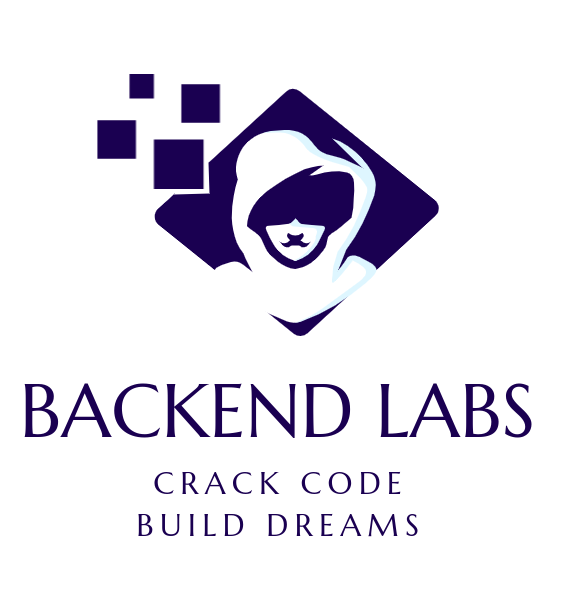
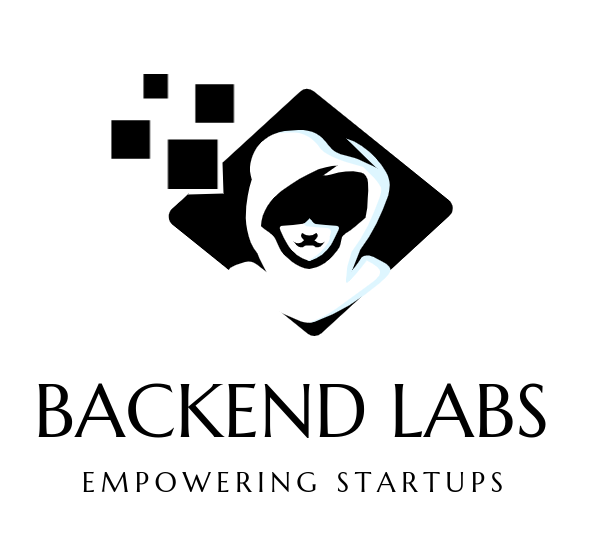
Add files via upload

Changed region(s): [[0.0299, 0.6432, 0.9577, 0.9189], [0.1496, 0.1225, 0.7782, 0.6126]]

diff --git a/profile/README.md b/profile/README.md
@@ -2,22 +2,19 @@
 
 ![logo](https://github.com/back-end-labs/.github/raw/main/profile/backendlabs.png)
 
-At Backend Labs, we transcend code, embodying these core values that power our success:
+Welcome to Backend Labs – the convergence of innovation and implementation for startups and small tech business.
 
-🚀 **Innovation Hub:** Crafting solutions at the forefront of technology.
+😓 Struggling with technical know-how for your MVP? We've got you covered.
 
-🤝 **Collaborative Spirit:** Embracing diverse perspectives to architect comprehensive solutions.
+👥 Short on developers for your ongoing project? We can help fill the gap.
 
-💡 **Excellence Matrix:** Precision in every line of code, forging seamless solutions.
+💻 Already have developers but need backend assistance for specific tasks? We specialize in that.
 
-Join us on our mission to innovate, collaborate, and build dreams with a touch of tech excellence.
+🛠 Require expert guidance on databases, architecture, deployments, or CI/CD pipelines? We're your dedicated partners.
 
-# Mission Control
-Backend Labs is dedicated to rewriting the digital experience. We embrace professional advice, providing software solutions that blend innovation and polished execution.
+If any of these situations resonate with your startup, reach out to us. Serious solutions await.
 
 🌐 **Connect with us:**
 - [LinkedIn](https://www.linkedin.com/company/backend-labs)
 - [contact@backendlabs.click](mailto:contact@backendlabs.click)
-
-#InnovateWithBackend #CodeCrafters #TechExcellence 💻✨
 
